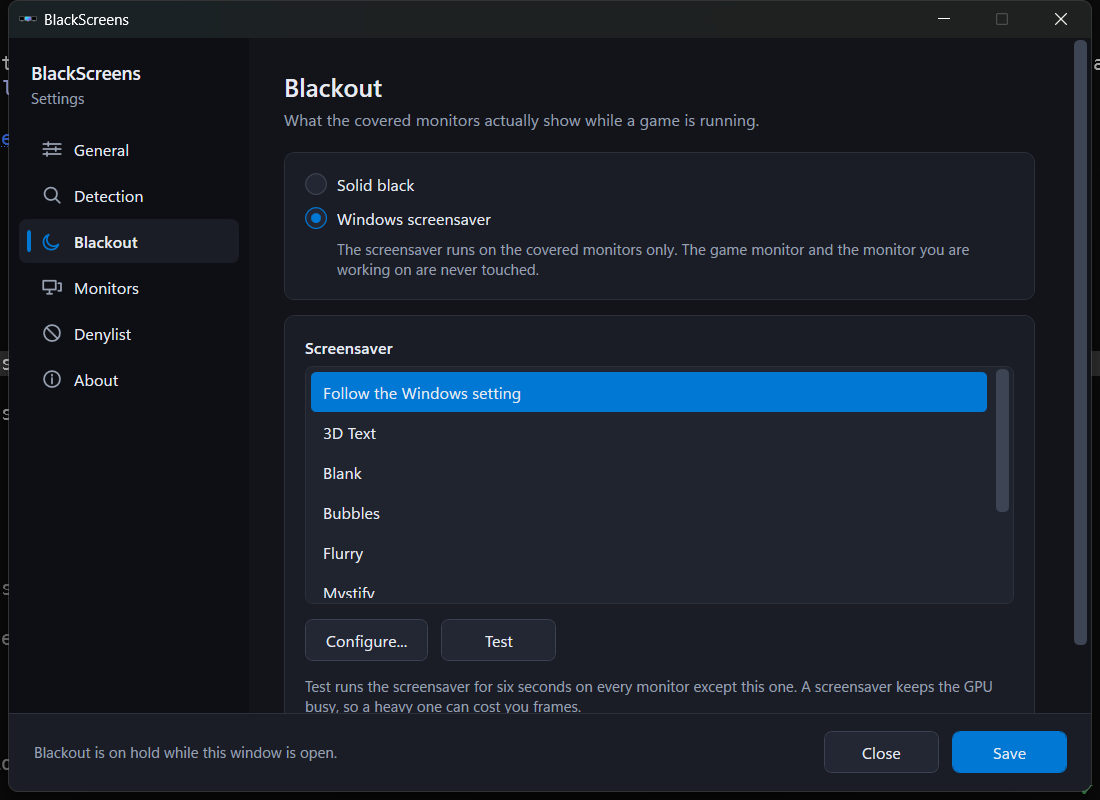
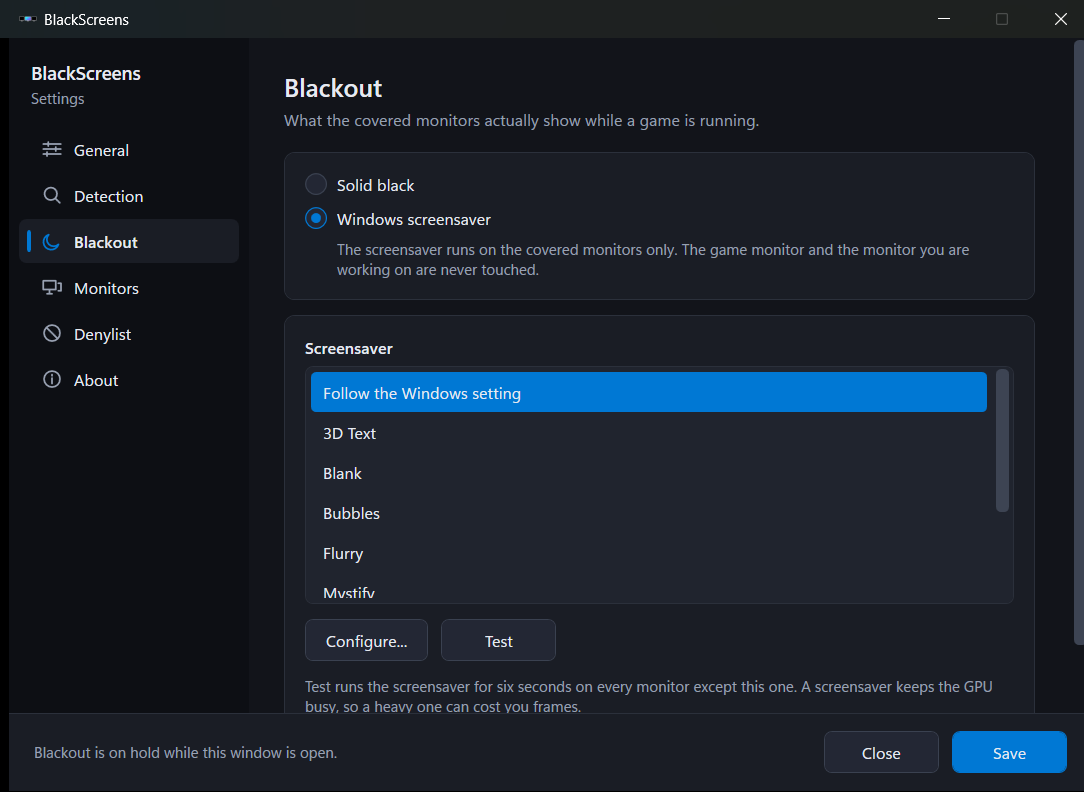
Recapture the screenshots without the desktop behind them
Every screenshot was a rectangle copied off the screen, so the window's drop
shadow and rounded corners let whatever was behind it bleed into the image.

They are now taken with PrintWindow, which renders the window itself and never
sees the desktop. The bitmap is pre-filled with a colour the interface never
uses, and whatever is still that colour afterwards, meaning the area outside
the rounded corners, becomes transparent. The tray menu is captured the same
way after a real right click on the notification icon.

Both are scripts rather than one off captures, so the shots can be retaken when
the interface changes.

diff --git a/docs/index.html b/docs/index.html
@@ -282,25 +282,25 @@
 
       <div class="shots">
         <figure>
-          <img src="assets/general.png" alt="The General page of BlackScreens settings, showing start with Windows, theme, pause hotkey and detection interval" width="1100" height="800" loading="lazy">
+          <img src="assets/general.png" alt="The General page of BlackScreens settings, showing start with Windows, theme, pause hotkey and detection interval" width="1084" height="792" loading="lazy">
           <figcaption>General: startup, theme, hotkey, how often detection runs.</figcaption>
         </figure>
         <figure>
-          <img src="assets/blackout.png" alt="The Blackout page, choosing between solid black and a Windows screensaver" width="1100" height="800" loading="lazy">
+          <img src="assets/blackout.png" alt="The Blackout page, choosing between solid black and a Windows screensaver" width="1084" height="792" loading="lazy">
           <figcaption>Blackout: solid black, or a screensaver on the covered monitors.</figcaption>
         </figure>
         <figure>
-          <img src="assets/monitors.png" alt="The Monitors page listing each connected display with a checkbox to keep it clear" width="1100" height="800" loading="lazy">
+          <img src="assets/monitors.png" alt="The Monitors page listing each connected display with a checkbox to keep it clear" width="1084" height="792" loading="lazy">
           <figcaption>Monitors: tick the screens that must never go black. Identify flashes a number on each one.</figcaption>
         </figure>
         <figure>
-          <img src="assets/denylist.png" alt="The Denylist page listing processes with their program icons" width="1100" height="800" loading="lazy">
+          <img src="assets/denylist.png" alt="The Denylist page listing processes with their program icons" width="1084" height="792" loading="lazy">
           <figcaption>Denylist: programs that never count as the game, with their real icons.</figcaption>
         </figure>
       </div>
 
       <figure class="tray-shot">
-        <img src="assets/tray.png" alt="The BlackScreens tray menu with a checkable Pause item showing the Ctrl Alt B shortcut" width="210" height="126" loading="lazy">
+        <img src="assets/tray.png" alt="The BlackScreens tray menu with a checkable Pause item showing the Ctrl Alt B shortcut" width="212" height="112" loading="lazy">
         <figcaption>The tray menu, themed to match.</figcaption>
       </figure>
     </div>
